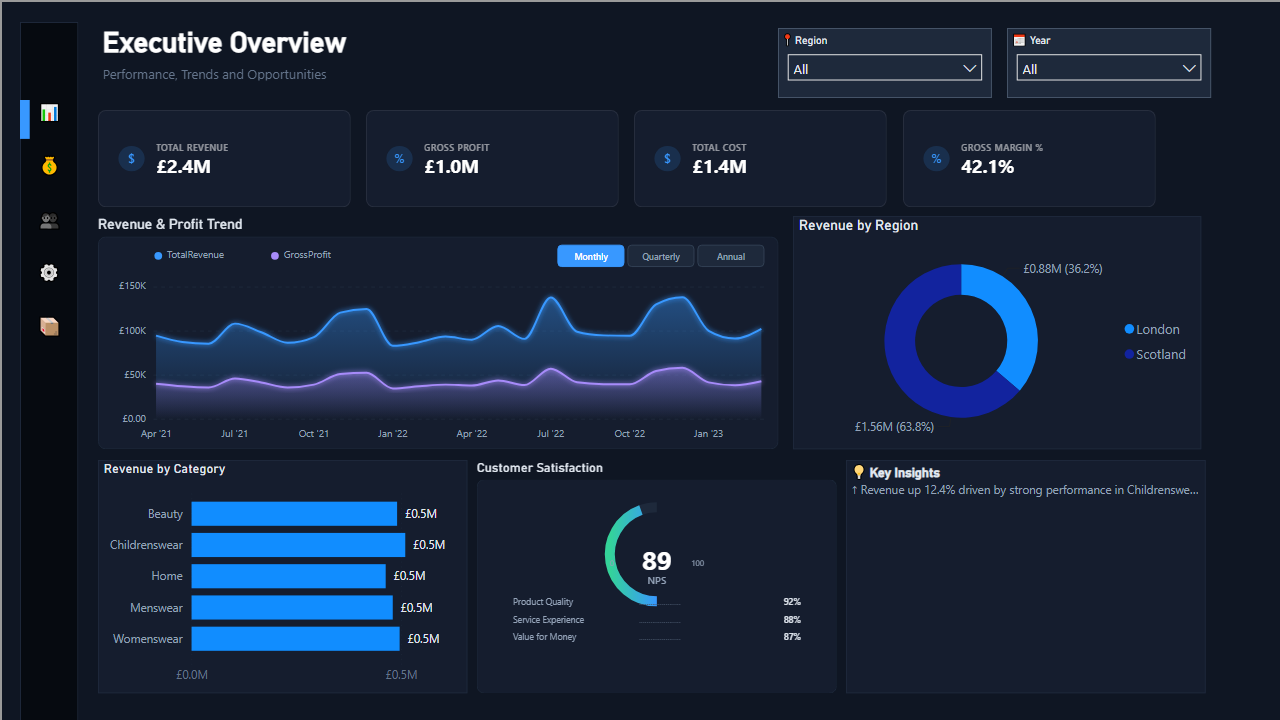
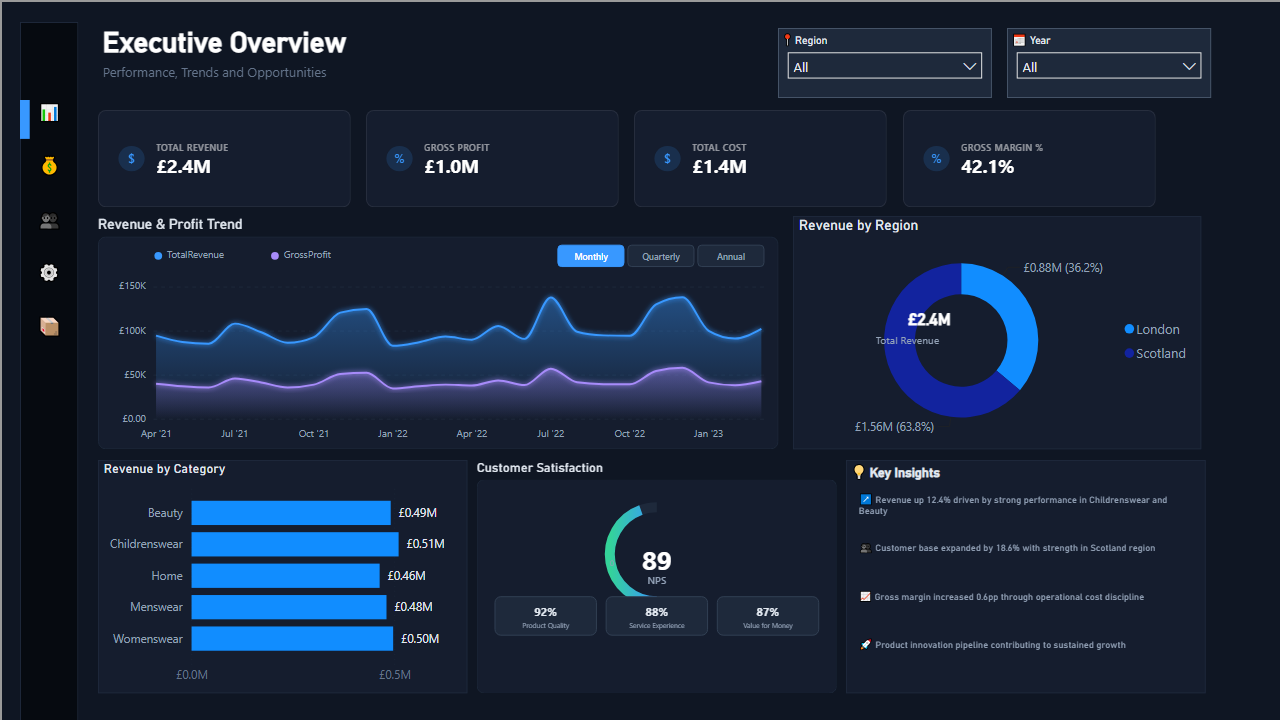
fix(07e): bar decimals, Key Insights multi-line, gauge KPI boxes, donut center label

diff --git a/custom-visuals/premiumGauge/src/visual.ts b/custom-visuals/premiumGauge/src/visual.ts
@@ -189,7 +189,7 @@ export class Visual implements IVisual {
                 .attr("transform", `translate(${arcCenterX}, ${arcCenterY})`)
                 .attr("stroke-width", arcStrokeWidth);
 
-            // Scale markers
+            // Scale markers - only show 0 on left
             this.minLabel
                 .attr("x", arcCenterX - arcRadius)
                 .attr("y", arcCenterY + markerFontSize + 4)
@@ -200,7 +200,7 @@ export class Visual implements IVisual {
                 .attr("x", arcCenterX + arcRadius)
                 .attr("y", arcCenterY + markerFontSize + 4)
                 .style("font-size", `${markerFontSize}px`)
-                .text("100");
+                .text("");
 
             // Score text
             this.scoreText
@@ -218,49 +218,50 @@ export class Visual implements IVisual {
 
             // Sub-metrics section
             const subMetricStartY = arcCenterY + fontSize * 0.6 + labelFontSize + 4 + subMetricFontSize * 2.5;
-            const subMetricPadX = width * 0.1;
-            const rowHeight = subMetricFontSize * 2;
+            const subMetricPadX = width * 0.05;
+            const boxWidth = (width - subMetricPadX * 2 - 10 * (this.subMetrics.length - 1)) / this.subMetrics.length;
+            const boxHeight = Math.max(36, height * 0.18);
+            const boxY = subMetricStartY - subMetricFontSize;
 
             this.subMetricGroup.selectAll("*").remove();
 
             this.subMetrics.forEach((metric, i) => {
-                const y = subMetricStartY + i * rowHeight;
+                const boxX = subMetricPadX + i * (boxWidth + 10);
 
-                // Label (left)
+                // Box background
+                this.subMetricGroup.append("rect")
+                    .attr("x", boxX)
+                    .attr("y", boxY)
+                    .attr("width", boxWidth)
+                    .attr("height", boxHeight)
+                    .attr("rx", 6)
+                    .attr("ry", 6)
+                    .attr("fill", "#1e293b")
+                    .attr("stroke", "#334155")
+                    .attr("stroke-width", 1);
+
+                // Value (large, centered top)
                 this.subMetricGroup.append("text")
-                    .attr("x", subMetricPadX)
-                    .attr("y", y)
-                    .attr("fill", "#94a3b8")
-                    .attr("text-anchor", "start")
-                    .style("font-family", "'Segoe UI', -apple-system, BlinkMacSystemFont, sans-serif")
-                    .style("font-size", `${subMetricFontSize}px`)
-                    .text(metric.label);
-
-                // Dots separator
-                const dotsX = subMetricPadX + width * 0.35;
-                const dotsWidth = width - 2 * subMetricPadX - width * 0.35 - width * 0.12;
-                const dotCount = Math.max(3, Math.floor(dotsWidth / (subMetricFontSize * 0.6)));
-                const dots = ".".repeat(dotCount);
-
-                this.subMetricGroup.append("text")
-                    .attr("x", dotsX)
-                    .attr("y", y)
-                    .attr("fill", "#475569")
-                    .attr("text-anchor", "start")
-                    .style("font-family", "'Segoe UI', -apple-system, BlinkMacSystemFont, sans-serif")
-                    .style("font-size", `${subMetricFontSize}px`)
-                    .text(dots);
-
-                // Value (right)
-                this.subMetricGroup.append("text")
-                    .attr("x", width - subMetricPadX)
-                    .attr("y", y)
+                    .attr("x", boxX + boxWidth / 2)
+                    .attr("y", boxY + boxHeight * 0.42)
                     .attr("fill", "#e2e8f0")
-                    .attr("text-anchor", "end")
-                    .style("font-family", "'Segoe UI', -apple-system, BlinkMacSystemFont, sans-serif")
-                    .style("font-size", `${subMetricFontSize}px`)
-                    .style("font-weight", "600")
+                    .attr("text-anchor", "middle")
+                    .attr("dominant-baseline", "middle")
+                    .style("font-family", "'Segoe UI', sans-serif")
+                    .style("font-size", `${Math.max(11, subMetricFontSize * 1.3)}px`)
+                    .style("font-weight", "bold")
                     .text(metric.value);
+
+                // Label (smaller, centered bottom)
+                this.subMetricGroup.append("text")
+                    .attr("x", boxX + boxWidth / 2)
+                    .attr("y", boxY + boxHeight * 0.78)
+                    .attr("fill", "#94a3b8")
+                    .attr("text-anchor", "middle")
+                    .attr("dominant-baseline", "middle")
+                    .style("font-family", "'Segoe UI', sans-serif")
+                    .style("font-size", `${Math.max(7, subMetricFontSize * 0.7)}px`)
+                    .text(metric.label);
             });
 
             this.events.renderingFinished(options);

diff --git a/scripts/_deploy_exec_v1.py b/scripts/_deploy_exec_v1.py
@@ -457,6 +457,38 @@ donut_vis["visual"] = {
 }
 add("definition/pages/exec/visuals/donut_region/visual.json", donut_vis)
 
+# Center KPI label for donut
+donut_center_x = donut_x + 80  # offset left to center on donut ring (not legend)
+donut_center_y = hero_y + 95  # vertical center of donut
+donut_kpi = vis_container("donut_kpi", donut_center_x, donut_center_y, 120, 50, 20)
+donut_kpi["visual"] = {
+    "visualType": "cardVisual",
+    "query": {"queryState": {"Values": {"projections": [{
+        "field": {"Measure": {"Expression": {"SourceRef": {"Entity": "Sales"}}, "Property": "TotalRevenue"}},
+        "queryRef": "Sales.TotalRevenue", "nativeQueryRef": "TotalRevenue",
+    }]}}},
+    "visualContainerObjects": {
+        "title": [{"properties": {
+            "show": {"expr": {"Literal": {"Value": "true"}}},
+            "text": {"expr": {"Literal": {"Value": "'£2.4M'"}}},
+            "fontColor": {"solid": {"color": {"expr": {"Literal": {"Value": "'#ffffff'"}}}}},
+            "fontSize": {"expr": {"Literal": {"Value": "14D"}}},
+            "bold": {"expr": {"Literal": {"Value": "true"}}},
+            "alignment": {"expr": {"Literal": {"Value": "'center'"}}},
+        }}],
+        "subTitle": [{"properties": {
+            "show": {"expr": {"Literal": {"Value": "true"}}},
+            "text": {"expr": {"Literal": {"Value": "'Total Revenue'"}}},
+            "fontColor": {"solid": {"color": {"expr": {"Literal": {"Value": "'#94a3b8'"}}}}},
+            "fontSize": {"expr": {"Literal": {"Value": "8D"}}},
+        }}],
+        "background": [{"properties": {"show": {"expr": {"Literal": {"Value": "false"}}}}}],
+        "border": [{"properties": {"show": {"expr": {"Literal": {"Value": "false"}}}}}],
+    },
+    "drillFilterOtherVisuals": False,
+}
+add("definition/pages/exec/visuals/donut_kpi/visual.json", donut_kpi)
+
 # ===== BOTTOM ROW: 3 panels =====
 bar_y = hero_y + 240 + 10
 bottom_panel_height = 240
@@ -485,7 +517,7 @@ bar_vis["visual"] = {
             "color": {"solid": {"color": {"expr": {"Literal": {"Value": "'#e2e8f0'"}}}}},
             "fontSize": {"expr": {"Literal": {"Value": "9D"}}},
             "labelDisplayUnits": {"expr": {"Literal": {"Value": "1000000D"}}},
-            "labelPrecision": {"expr": {"Literal": {"Value": "1D"}}},
+            "labelPrecision": {"expr": {"Literal": {"Value": "2D"}}},
         }}],
         "categoryAxis": [{"properties": {"showAxisTitle": {"expr": {"Literal": {"Value": "false"}}}, "labelColor": {"solid": {"color": {"expr": {"Literal": {"Value": "'#94a3b8'"}}}}},}}],
         "valueAxis": [{"properties": {"showAxisTitle": {"expr": {"Literal": {"Value": "false"}}}, "labelColor": {"solid": {"color": {"expr": {"Literal": {"Value": "'#64748b'"}}}}}, "gridlineColor": {"solid": {"color": {"expr": {"Literal": {"Value": "'#1e293b'"}}}}},}}],
@@ -540,10 +572,12 @@ gauge_vis["visual"] = {
 }
 add("definition/pages/exec/visuals/gauge_sat/visual.json", gauge_vis)
 
-# Panel 3: Key Insights (card visual with title as text content)
+# Panel 3: Key Insights (multiple card visuals for each line)
 insights_x = gauge_x + panel2_width + panel_gap
-insights_vis = vis_container("key_insights", insights_x, bar_y, panel3_width, bottom_panel_height, 14)
-insights_vis["visual"] = {
+
+# Background container
+insights_bg = vis_container("key_insights_bg", insights_x, bar_y, panel3_width, bottom_panel_height, 14)
+insights_bg["visual"] = {
     "visualType": "cardVisual",
     "query": {"queryState": {"Values": {"projections": [{
         "field": {"Measure": {"Expression": {"SourceRef": {"Entity": "Sales"}}, "Property": "TotalRevenue"}},
@@ -557,12 +591,6 @@ insights_vis["visual"] = {
             "fontSize": {"expr": {"Literal": {"Value": "11D"}}},
             "bold": {"expr": {"Literal": {"Value": "true"}}},
         }}],
-        "subTitle": [{"properties": {
-            "show": {"expr": {"Literal": {"Value": "true"}}},
-            "text": {"expr": {"Literal": {"Value": "'↑ Revenue up 12.4% driven by strong performance in Childrenswear and Beauty\\n\\n↑ Customer base expanded by 18.6% with strength in Scotland\\n\\n↑ Gross margin increased 0.6pp through discipline on operational costs'"}}},
-            "fontColor": {"solid": {"color": {"expr": {"Literal": {"Value": "'#94a3b8'"}}}}},
-            "fontSize": {"expr": {"Literal": {"Value": "9D"}}},
-        }}],
         "background": [{"properties": {
             "show": {"expr": {"Literal": {"Value": "true"}}},
             "color": {"solid": {"color": {"expr": {"Literal": {"Value": "'#151d2e'"}}}}},
@@ -575,7 +603,37 @@ insights_vis["visual"] = {
     },
     "drillFilterOtherVisuals": False,
 }
-add("definition/pages/exec/visuals/key_insights/visual.json", insights_vis)
+add("definition/pages/exec/visuals/key_insights_bg/visual.json", insights_bg)
+
+# Individual insight lines
+insight_lines = [
+    ("↗", "Revenue up 12.4% driven by strong performance in Childrenswear and Beauty"),
+    ("👥", "Customer base expanded by 18.6% with strength in Scotland region"),
+    ("📈", "Gross margin increased 0.6pp through operational cost discipline"),
+    ("🚀", "Product innovation pipeline contributing to sustained growth"),
+]
+for il_idx, (il_icon, il_text) in enumerate(insight_lines):
+    il_y = bar_y + 32 + il_idx * 50
+    il_vis = vis_container(f"insight_{il_idx}", insights_x + 8, il_y, panel3_width - 16, 46, 15 + il_idx)
+    il_vis["visual"] = {
+        "visualType": "cardVisual",
+        "query": {"queryState": {"Values": {"projections": [{
+            "field": {"Measure": {"Expression": {"SourceRef": {"Entity": "Sales"}}, "Property": "TotalRevenue"}},
+            "queryRef": "Sales.TotalRevenue", "nativeQueryRef": "TotalRevenue",
+        }]}}},
+        "visualContainerObjects": {
+            "title": [{"properties": {
+                "show": {"expr": {"Literal": {"Value": "true"}}},
+                "text": {"expr": {"Literal": {"Value": "'" + il_icon + " " + il_text + "'"}}},
+                "fontColor": {"solid": {"color": {"expr": {"Literal": {"Value": "'#94a3b8'"}}}}},
+                "fontSize": {"expr": {"Literal": {"Value": "8D"}}},
+            }}],
+            "background": [{"properties": {"show": {"expr": {"Literal": {"Value": "false"}}}}}],
+            "border": [{"properties": {"show": {"expr": {"Literal": {"Value": "false"}}}}}],
+        },
+        "drillFilterOtherVisuals": False,
+    }
+    add(f"definition/pages/exec/visuals/insight_{il_idx}/visual.json", il_vis)
 
 # ===== LEFT NAV RAIL =====
 nav_vis = vis_container("nav_rail", 0, 0, 60, 720, 1)
